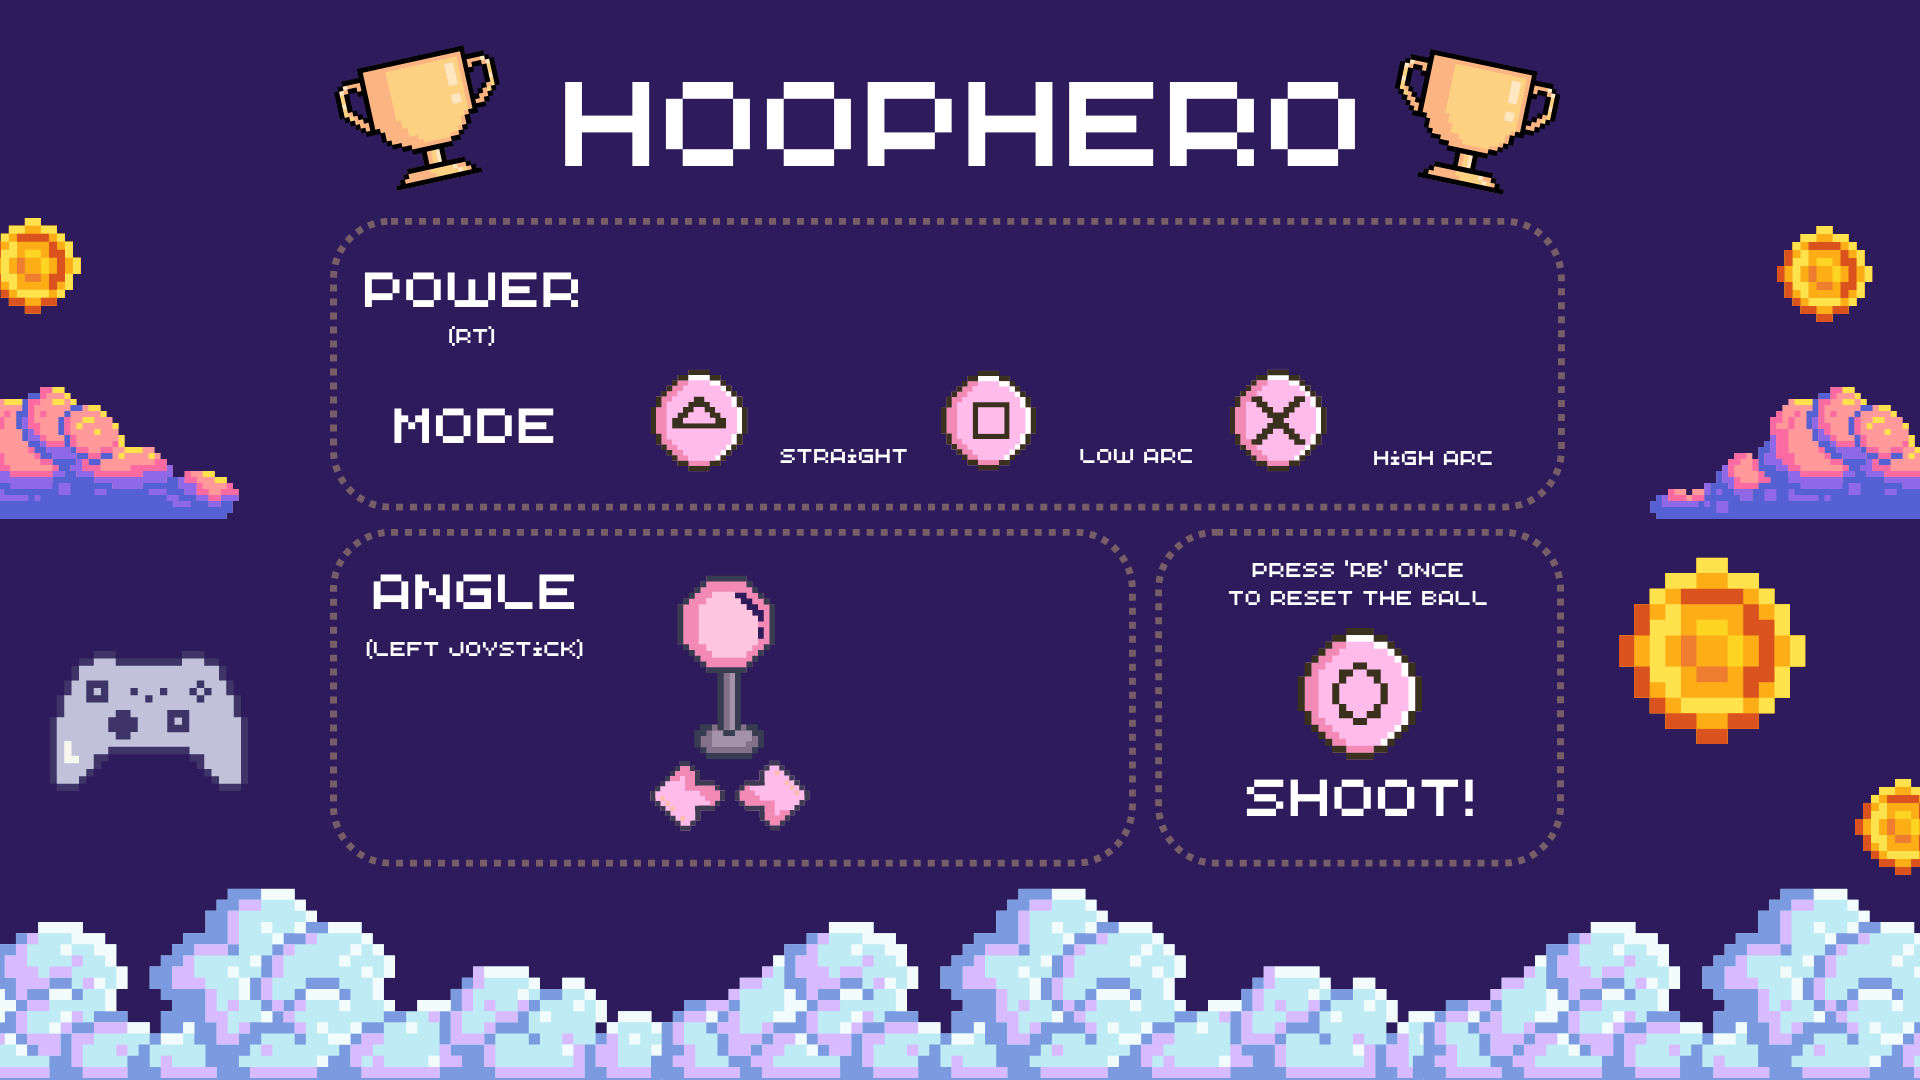
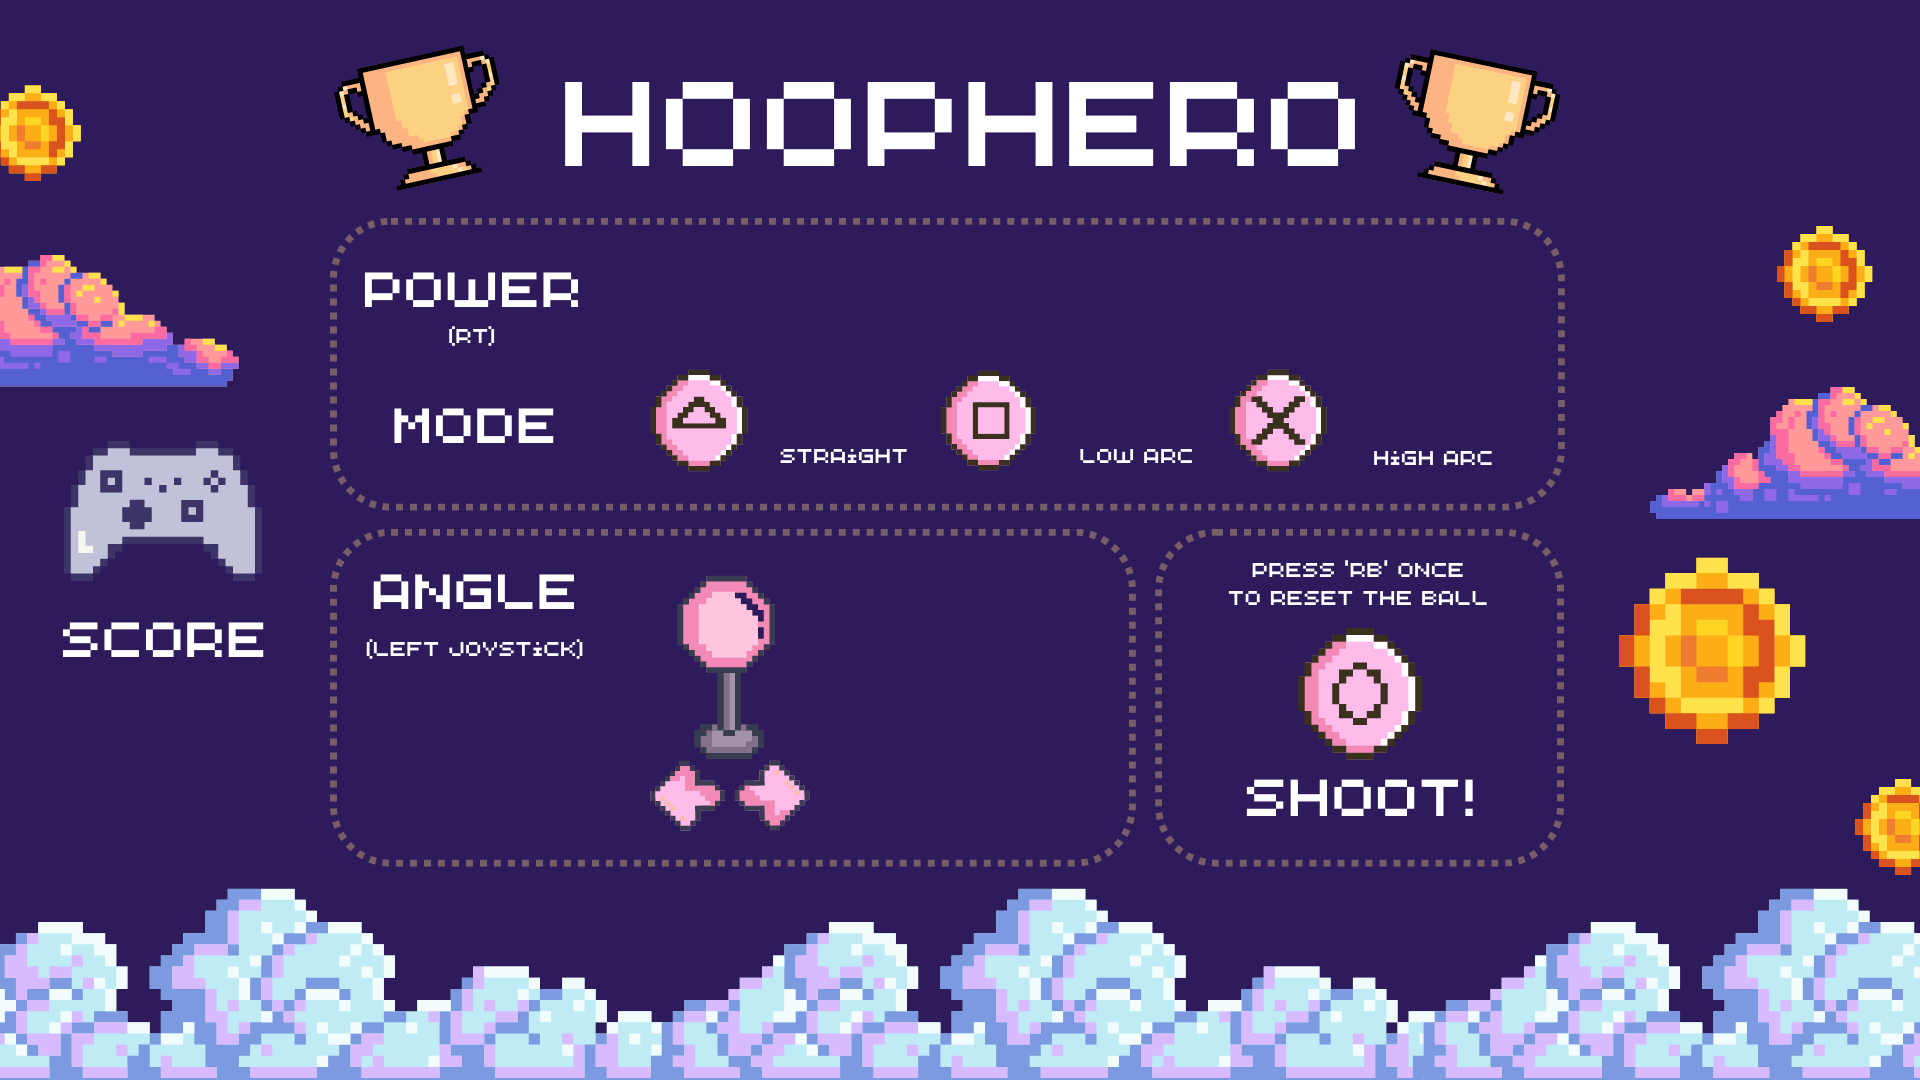
let's go target

Changed region(s): [[0.0, 0.0611, 0.1562, 0.7333]]

diff --git a/project/new-interface.py b/project/new-interface.py
@@ -70,6 +70,7 @@ shooting_angle_input = ""
 launch_button = None
 power_counter = 0
 joystick_process = None
+score_label = None
 
 def run():
     global joystick_process
@@ -130,6 +131,7 @@ def check_redis_keys(keys, app):
     global switch1
     global switch2
     global switch3
+    global score_label
 
     for key, value in keys.items():
         if r.exists(key):
@@ -166,6 +168,10 @@ def check_redis_keys(keys, app):
         switch_event3()
     else:
         switch_event1()
+
+    score_text = r.get(SCORE).decode()
+    score_label.configure(text=score_text)
+    score_label.update()
 
     # Schedule the next Redis key retrieval after a certain interval
     app.after(1, check_redis_keys, keys, app)  # Adjust the interval as needed
@@ -235,6 +241,7 @@ def main():
     global angle_canvas, angle_line, angle_text, angle_label
     global intro_frame
     global joystick_process
+    global score_label
 
     # init keys
     r.set(SHOOTER_POWER, "0.5")
@@ -244,6 +251,8 @@ def main():
     r.set(GRAVITY_KEY, str([0.0, 0.0, -9.81]))
     r.set(PRESS_START_KEY, "0")
     r.set(CONTINUE_KEY, "0")
+    r.set(SCORE, "0")
+    r.set(CHECK_SPOT, "0")
 
     # Launch the joystick_controller.py script
     joystick_process = subprocess.Popen(["python3", "joystick_controller.py"])
@@ -303,6 +312,12 @@ def main():
     angle_text = str(shooting_angle) + u"\u00b0"
     angle_label = ctk.CTkLabel(main_frame, text=angle_text, font=('Berlin Sans FB Demi', 60), bg_color="#2e1b5b", text_color="white")
     angle_label.place(relx=0.25, rely=0.7, anchor=tk.CENTER)
+
+    # score module
+    score_text = r.get(SCORE).decode()
+    score_label = ctk.CTkLabel(main_frame, text=score_text, font=('Berlin Sans FB Demi', 60), bg_color="#2e1b5b",
+                               text_color="white")
+    score_label.place(relx=0.08, rely=0.7, anchor=tk.CENTER)
 
     # create start frame
     start_frame = ctk.CTkFrame(app, corner_radius=0)

diff --git a/project/controller.cpp b/project/controller.cpp
@@ -284,6 +284,8 @@ int main() {
                 }
                 else if (hoop_state == HOOP_INITIALIZE) {
 
+                    if (redis_client.get(CHECK_SPOT) == "1") redis_client.set(CHECK_SPOT, "0");
+
                     //initialize timer before each task
                     timer.initializeTimer();
 
@@ -372,7 +374,7 @@ int main() {
                     // turn off velocity limit when reaching
 //                    posori_task->_use_interpolation_flag = false;
                     posori_task->_use_velocity_saturation_flag = true;
-                    posori_task->_linear_saturation_velocity = 10;
+                    posori_task->_linear_saturation_velocity = 20;
 
                     posori_task->_desired_position = x_desired;
                     base_task->_desired_position = base_pose_init_desired;
@@ -400,7 +402,8 @@ int main() {
                         arm_joint_task->reInitializeTask();
                         posori_task->reInitializeTask();
                         redis_client.setEigenMatrixJSON(HOOP_EE_POS, ee_pos);
-                        if (sleep_counter < 2000) {
+                        if (redis_client.get(CHECK_SPOT) == "0") redis_client.set(CHECK_SPOT, "1");
+                        if (sleep_counter < 1200) {
                             sleep_counter++;
                             }
                         else {

diff --git a/project/redis_keys.h b/project/redis_keys.h
@@ -57,6 +57,8 @@ const std::string SHOOTER_SET_STATE = "sai2::shooter::set_state";
 const std::string GRAVITY_KEY = "sai2::sim::world_gravity";
 const std::string EE_FORCE_KEY = "cs225a::sensor::force";
 const std::string EE_MOMENT_KEY = "cs225a::sensor::moment";
+const std::string SCORE = "sim::game::score";
+const std::string CHECK_SPOT = "sim::game::check_spot_with_target";
 
 
 

diff --git a/project/keys.py b/project/keys.py
@@ -56,6 +56,8 @@ EE_FORCE_KEY = "cs225a::sensor::force"
 EE_MOMENT_KEY = "cs225a::sensor::moment"
 PRESS_START_KEY = "sim::start"
 CONTINUE_KEY = "sim::continue"
+SCORE = "sim::game::score"
+CHECK_SPOT = "sim::game::check_spot_with_target"
 
 
 
